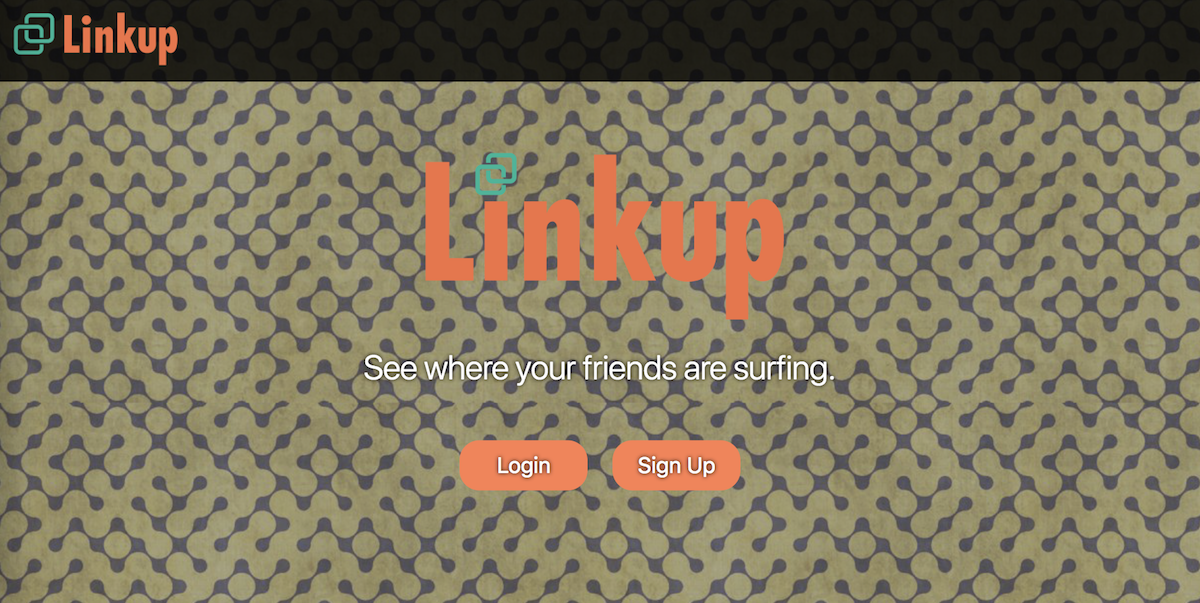
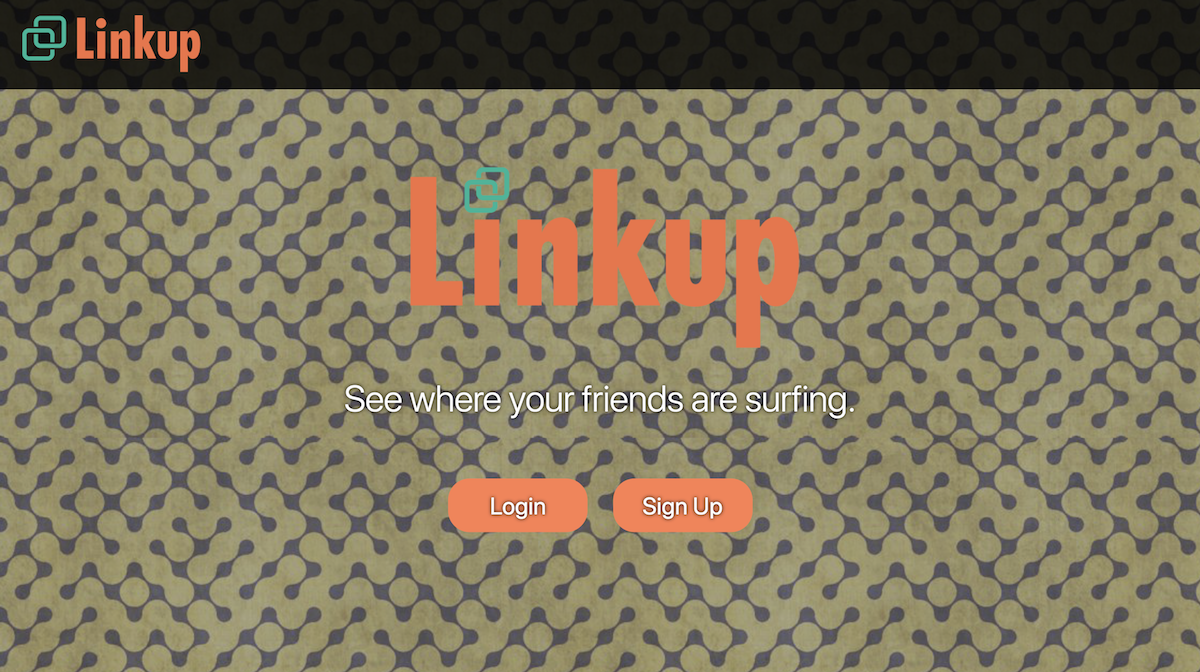
adjusted linkup image size

diff --git a/css/style.css b/css/style.css
@@ -325,7 +325,7 @@ nav {
 }
 
 .featured-links a {
-  color: #96B6AD;
+  color: #96B6AD!important;
   font-weight: bold;
   margin: 0 20px;
 }
